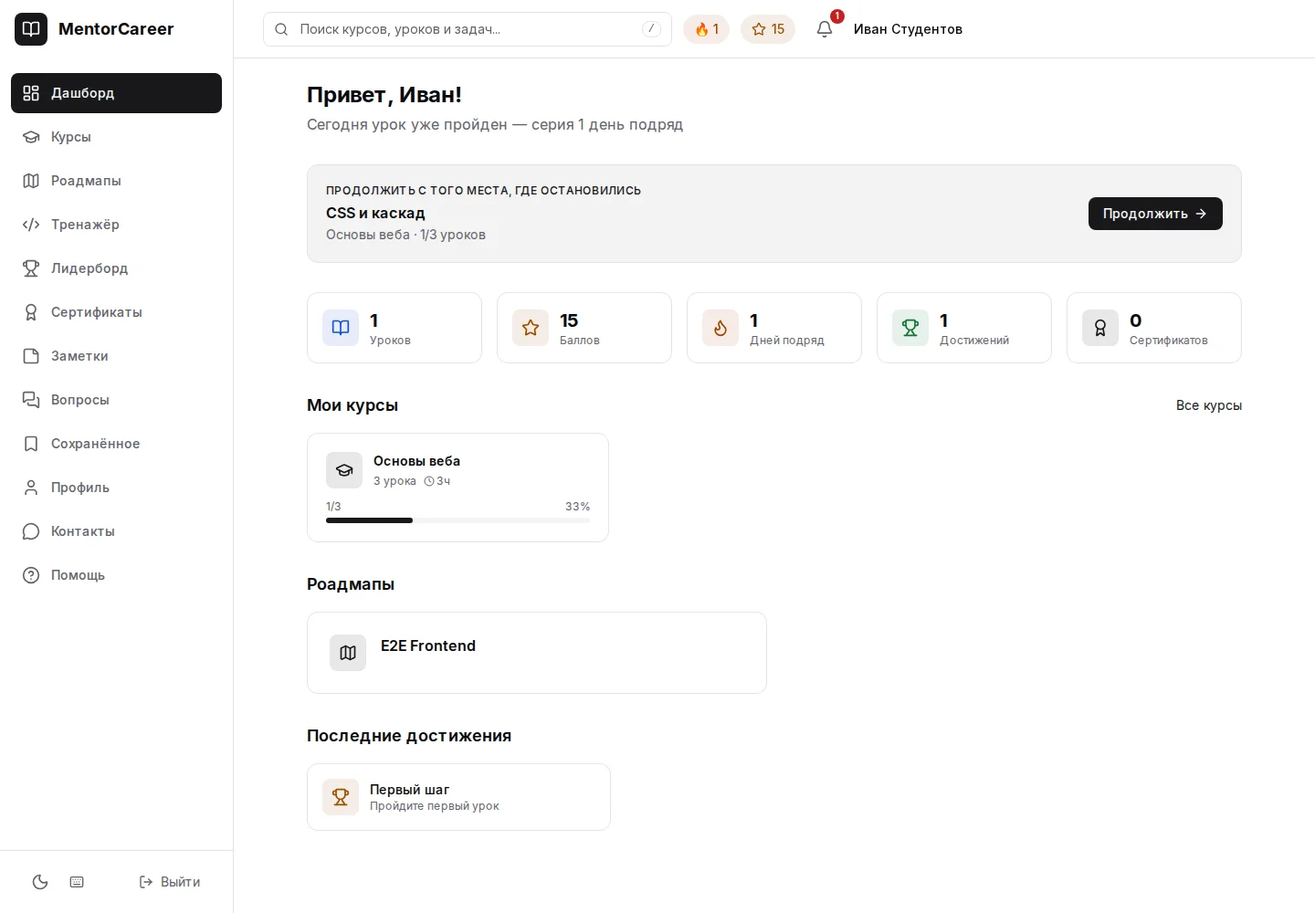
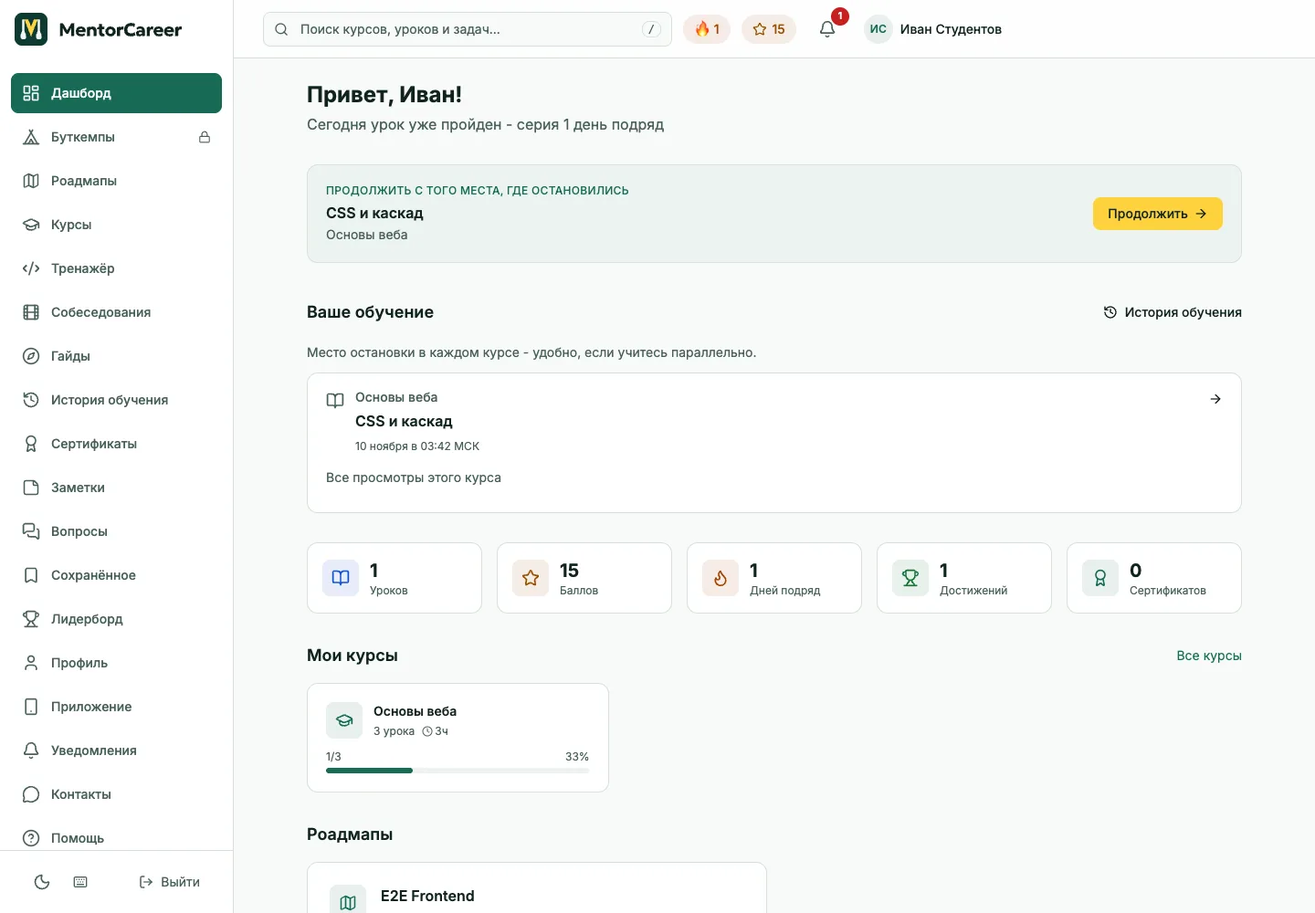
feat(landing): скриншоты инструкции с текущей платформы и скрипт пересъёмки
Тринадцать снимков на info.mentorcareer.ru показывали старый чёрный
интерфейс с книгой вместо знака. scripts/brand/guide-screens.ts снимает их
с e2e-сида и сам считает координаты меток шагов. Картинка лендинга для
соцсетей собрана без накладки на логотип, тексты шагов сверены с
интерфейсом.

diff --git a/landing/src/data/guide.ts b/landing/src/data/guide.ts
@@ -23,9 +23,9 @@ export const CHAPTERS: Chapter[] = [
     intro: 'Для начала нужен аккаунт. Его создаёт администратор - искать кнопку регистрации не нужно. Используйте письмо-приглашение или email и пароль, которые администратор передал вам напрямую.',
     screen: 'login', alt: 'Страница входа MentorCareer: email, пароль и кнопка «Войти»',
     steps: [
-      { title: 'Введите email', text: 'Используйте тот адрес, на который получили приглашение. Это ваш логин.', x: 50, y: 50.0 },
-      { title: 'Введите пароль и войдите', text: 'Введите пароль, который задали по приглашению или получили от администратора, и нажмите «Войти».', x: 50, y: 70.0 },
-      { title: 'Восстановите доступ при необходимости', text: 'Нажмите «Забыли пароль?», введите email и запросите ссылку. Затем задайте новый пароль и вернитесь на вход.', x: 60, y: 65.0 },
+      { title: 'Введите email', text: 'Используйте тот адрес, на который получили приглашение. Это ваш логин.', x: 50, y: 47.3 },
+      { title: 'Введите пароль и войдите', text: 'Введите пароль, который задали по приглашению или получили от администратора, и нажмите «Войти».', x: 50, y: 67 },
+      { title: 'Восстановите доступ при необходимости', text: 'Нажмите «Забыли пароль?», введите email и запросите ссылку. Затем задайте новый пароль и вернитесь на вход.', x: 60.57, y: 61.6 },
     ],
     tip: 'Ссылка из приглашения действует 7 дней. Если она устарела, используйте «Забыли пароль?». Если приглашение не пришло, обратитесь к администратору доступа.',
     details: [
@@ -38,9 +38,9 @@ export const CHAPTERS: Chapter[] = [
     intro: 'После входа открывается дашборд. Здесь собран ваш прогресс, а меню слева помогает перейти к теории, практике и личным материалам.',
     screen: 'dashboard', alt: 'Дашборд LMS с навигацией, статистикой и учебными курсами',
     steps: [
-      { title: 'Выберите раздел в меню', text: '«Роадмапы» показывают порядок тем, «Курсы» - учебные материалы, «Тренажёр» - задачи для практики.', x: 8, y: 22.0 },
-      { title: 'Найдите материал через поиск', text: 'Откройте поиск в верхней панели. Он ищет курсы, уроки и задачи.', x: 41, y: 3.0 },
-      { title: 'Продолжайте начатое', text: 'Блок «Продолжить с того места, где остановились» показывает последний открытый урок. Нажмите «Продолжить», чтобы вернуться к нему.', x: 88, y: 23.0 },
+      { title: 'Выберите раздел в меню', text: '«Роадмапы» показывают порядок тем, «Курсы» - учебные материалы, «Тренажёр» - задачи для практики.', x: 8.85, y: 19.8 },
+      { title: 'Найдите материал через поиск', text: 'Откройте поиск в верхней панели. Он ищет курсы, уроки и задачи.', x: 35.56, y: 3.15 },
+      { title: 'Продолжайте начатое', text: 'Блок «Продолжить с того места, где остановились» показывает последний открытый урок. Нажмите «Продолжить», чтобы вернуться к нему.', x: 88.07, y: 23.4 },
     ],
     tip: 'Не знаете, с чего начать? Откройте «Роадмапы»: там виден порядок тем и ваш следующий шаг.',
     details: [
@@ -53,9 +53,9 @@ export const CHAPTERS: Chapter[] = [
     intro: 'Откройте «Роадмапы» и выберите свой маршрут. Темы связаны между собой: карта помогает увидеть весь путь, а список - спокойно пройти его по этапам.',
     screen: 'roadmap', alt: 'Роадмап: следующий шаг, переключатель карты и список учебных этапов',
     steps: [
-      { title: 'Начните со следующего шага', text: 'В верхнем блоке нажмите «Начать» или «Продолжить». «Программа курса» позволяет сначала посмотреть содержание.', x: 81, y: 32.0 },
-      { title: 'Выберите удобный вид', text: 'Переключайтесь между «Карта» и «Список по этапам».', x: 33, y: 46.0 },
-      { title: 'Изучите тему', text: 'Выберите тему: в панели появятся описание, входящие подтемы, курсы и прогресс. Откройте доступный курс и перейдите к уроку.', x: 59, y: 96.0 },
+      { title: 'Начните со следующего шага', text: 'В верхнем блоке нажмите «Начать» или «Продолжить». «Программа курса» позволяет сначала посмотреть содержание.', x: 80.08, y: 29.89 },
+      { title: 'Выберите удобный вид', text: 'Переключайтесь между «Карта» и «Список по этапам».', x: 29.25, y: 41.76 },
+      { title: 'Изучите тему', text: 'Выберите тему: в панели появятся описание, входящие подтемы, курсы и прогресс. Откройте доступный курс и перейдите к уроку.', x: 57.5, y: 93.75 },
     ],
     tip: 'Доступ к материалам назначает администратор. Программу закрытого курса можно посмотреть, а чтобы его изучать, обратитесь к администратору.',
     details: [
@@ -68,9 +68,9 @@ export const CHAPTERS: Chapter[] = [
     intro: 'В разделе «Курсы» можно искать по названию и отбирать материалы по прогрессу. Внутри курса есть программа, разделы и переход к следующему непройденному уроку.',
     screen: 'courses', alt: 'Каталог курсов с поиском и фильтрами по прогрессу',
     steps: [
-      { title: 'Найдите нужный курс', text: 'Введите название в поле «Найти курс».', x: 37, y: 23.53 },
-      { title: 'Отберите курсы по статусу', text: 'Включите «Назначенные мне», чтобы видеть курсы с доступными уроками. Фильтры «В процессе», «Не начатые» и «Пройденные» помогут быстро найти нужное.', x: 40, y: 30.88 },
-      { title: 'Откройте программу', text: 'Выберите карточку курса. Программу можно просмотреть даже без доступа. В назначенном курсе нажмите «Начать» или «Продолжить» либо выберите доступный урок; закрытые уроки отмечены замком.', x: 35, y: 50.0 },
+      { title: 'Найдите нужный курс', text: 'Введите название в поле «Найти курс».', x: 36.67, y: 37.68 },
+      { title: 'Отберите курсы по статусу', text: 'Включите «Назначенные мне», чтобы видеть курсы с доступными уроками. Фильтры «В процессе», «Не начатые» и «Пройденные» помогут быстро найти нужное.', x: 32.45, y: 44.6 },
+      { title: 'Откройте программу', text: 'Выберите карточку курса. Программу можно просмотреть даже без доступа. В назначенном курсе нажмите «Начать» или «Продолжить» либо выберите доступный урок; закрытые уроки отмечены замком.', x: 34.81, y: 73.42 },
     ],
     tip: 'Процент на карточке зависит от отмеченных уроков. Само открытие курса или просмотр страницы не увеличивает прогресс.',
     details: [
@@ -83,9 +83,9 @@ export const CHAPTERS: Chapter[] = [
     intro: 'На странице урока расположены учебные материалы, заметки, отметка завершения и вопросы. Не торопитесь переходить дальше: сохраните главное и проверьте, что тема понятна.',
     screen: 'lesson', alt: 'Страница урока с учебным материалом, заметками и отметкой завершения',
     steps: [
-      { title: 'Изучите содержание', text: 'Прочитайте текст и посмотрите видео, если оно есть. Урок может также содержать ссылки, файлы и другие учебные блоки.', x: 48, y: 31.96 },
-      { title: 'Отметьте урок пройденным', text: 'После изучения нажмите «Отметить пройденным». Надпись изменится на «Урок пройден». Просмотр видео сам по себе не ставит отметку.', x: 48, y: 57.08 },
-      { title: 'Перейдите к следующему уроку', text: 'Используйте переход к следующему уроку. Вернуться к предыдущему можно через соседнюю ссылку или программу курса.', x: 72, y: 63.93 },
+      { title: 'Изучите содержание', text: 'Прочитайте текст и посмотрите видео, если оно есть. Урок может также содержать ссылки, файлы и другие учебные блоки.', x: 48.06, y: 41.1 },
+      { title: 'Отметьте урок пройденным', text: 'После изучения нажмите «Отметить пройденным». Надпись изменится на «Урок пройден». Просмотр видео сам по себе не ставит отметку.', x: 48.06, y: 65.87 },
+      { title: 'Перейдите к следующему уроку', text: 'Используйте переход к следующему уроку. Вернуться к предыдущему можно через соседнюю ссылку или программу курса.', x: 62.29, y: 75.8 },
     ],
     tip: 'Повторное нажатие на «Урок пройден» снимает отметку. Используйте это, если хотите вернуть урок в список непройденных.',
     details: [
@@ -97,9 +97,9 @@ export const CHAPTERS: Chapter[] = [
     intro: 'Заметки помогают собрать собственный конспект. Закладки - быстро вернуться к материалу. Вопросы к уроку позволяют обсудить конкретную тему с ментором.',
     screen: 'lesson-notes', alt: 'Урок с открытым полем «Мои заметки», кнопкой сохранения и вопросами к уроку',
     steps: [
-      { title: 'Запишите и сохраните заметку', text: 'Откройте «Мои заметки», введите текст и нажмите «Сохранить».', x: 71, y: 58.0 },
-      { title: 'Поставьте закладку', text: 'Кнопка «В сохранённое» добавляет урок или задачу в личный список. Повторное нажатие на «В сохранённом» удаляет закладку.', x: 71, y: 16.0 },
-      { title: 'Задайте вопрос по уроку', text: 'Ниже найдите «Вопросы к уроку», опишите, что осталось непонятным, и нажмите кнопку отправки. Вопрос видите только вы и ментор.', x: 48, y: 93.0 },
+      { title: 'Запишите и сохраните заметку', text: 'Откройте «Мои заметки», введите текст и нажмите «Сохранить».', x: 70.63, y: 58.93 },
+      { title: 'Поставьте закладку', text: 'Кнопка «В сохранённое» добавляет урок или задачу в личный список. Повторное нажатие на «В сохранённом» удаляет закладку.', x: 70.87, y: 16.34 },
+      { title: 'Задайте вопрос по уроку', text: 'Ниже найдите «Вопросы к уроку», опишите, что осталось непонятным, и нажмите кнопку отправки. Вопрос видите только вы и ментор.', x: 48.06, y: 96.07 },
     ],
     tip: 'Когда ментор ответит, придёт уведомление. Все ваши обсуждения доступны в разделе «Вопросы», а конспекты - в «Заметках».',
     details: [
@@ -112,9 +112,9 @@ export const CHAPTERS: Chapter[] = [
     intro: 'Откройте «Тренажёр», выберите тему и задачу. В каталоге «Все задачи» можно отбирать их по языку, сложности и статусу. У каждой задачи есть условие, редактор и результаты проверки.',
     screen: 'trainer', alt: 'Тренажёр: условие задачи, редактор кода, кнопки «Запустить» и «Отправить»',
     steps: [
-      { title: 'Прочитайте условие и тесты', text: 'Начните с вкладок «Условие» и «Тесты». Обратите внимание на ожидаемый результат и ограничения, затем напишите решение в редакторе.', x: 24, y: 23.0 },
-      { title: 'Проверьте код: «Запустить»', text: 'Кнопка выполняет публичные тесты в браузере. Если тест не проходит, сравните «Вызов», «Ожидалось» и «Получено», исправьте код и повторите.', x: 70, y: 22.0 },
-      { title: 'Получите зачёт: «Отправить»', text: 'Отправьте решение на сервер. Он проверит и публичные, и скрытые тесты. При успехе появится «Задача решена!» и обновится ваш прогресс.', x: 80, y: 22.0 },
+      { title: 'Прочитайте условие и тесты', text: 'Начните с вкладок «Условие» и «Тесты». Обратите внимание на ожидаемый результат и ограничения, затем напишите решение в редакторе.', x: 24.21, y: 26.3 },
+      { title: 'Проверьте код: «Запустить»', text: 'Кнопка выполняет публичные тесты в браузере. Если тест не проходит, сравните «Вызов», «Ожидалось» и «Получено», исправьте код и повторите.', x: 84.32, y: 25.8 },
+      { title: 'Получите зачёт: «Отправить»', text: 'Отправьте решение на сервер. Он проверит и публичные, и скрытые тесты. При успехе появится «Задача решена!» и обновится ваш прогресс.', x: 93.31, y: 25.8 },
     ],
     tip: 'Зелёные тесты после «Запустить» ещё не означают зачёт. Всегда завершайте решение успешной отправкой на сервер.',
     details: [
@@ -128,13 +128,13 @@ export const CHAPTERS: Chapter[] = [
     intro: 'Прогресс по курсам виден в каталоге и роадмапе. В профиле собраны пройденные уроки, баллы, достижения и активность. Это помогает видеть результат регулярных занятий.',
     screen: 'profile', alt: 'Профиль ученика: количество уроков, баллы, достижения и активность',
     steps: [
-      { title: 'Посмотрите свою статистику', text: 'Откройте «Профиль». В верхней части страницы видны пройденные уроки, баллы и число достижений.', x: 59, y: 30.0 },
-      { title: 'Оцените регулярность занятий', text: 'Блок «Активность» показывает учебную активность по дням. Ниже можно посмотреть ближайшие достижения.', x: 50, y: 51.0 },
-      { title: 'Найдите сертификаты', text: 'После завершения всех опубликованных уроков курса откройте «Сертификаты». Выберите карточку, чтобы открыть документ.', x: 9, y: 34.0 },
+      { title: 'Посмотрите свою статистику', text: 'Откройте «Профиль». В верхней части страницы видны пройденные уроки, баллы и число достижений.', x: 56.5, y: 34.1 },
+      { title: 'Оцените регулярность занятий', text: 'Блок «Активность» показывает учебную активность по дням. Ниже можно посмотреть ближайшие достижения.', x: 41.92, y: 56.5 },
+      { title: 'Найдите сертификаты', text: 'После завершения всех опубликованных уроков курса откройте «Сертификаты». Выберите карточку, чтобы открыть документ.', x: 8.85, y: 48.6 },
     ],
     tip: '«Скачать PDF» на странице сертификата открывает окно печати браузера. Выберите «Сохранить как PDF».',
     details: [
-      { title: 'Настройте профиль', text: 'Через «Редактировать профиль» можно изменить аватар и текст «О себе», затем нажать «Сохранить».' },
+      { title: 'Настройте профиль', text: 'Через «Настроить профиль» можно изменить аватар и текст «О себе», затем нажать «Сохранить профиль».' },
       { title: 'Если прогресс не изменился', text: 'Проверьте, что урок отмечен пройденным или решение успешно отправлено на сервер. Открытая страница, просмотр видео и запуск публичных тестов не заменяют эти действия.' },
     ],
   },
@@ -143,9 +143,9 @@ export const CHAPTERS: Chapter[] = [
     intro: 'На телефоне навигация адаптируется: основные разделы доступны снизу, остальные - через «Ещё». Уроки, заметки и вопросы остаются доступными.',
     screen: 'mobile', alt: 'Мобильный дашборд MentorCareer с нижней навигацией',
     steps: [
-      { title: 'Используйте нижнюю навигацию', text: 'Переключайтесь между основными учебными разделами через панель внизу экрана.', x: 50, y: 96.0 },
-      { title: 'Откройте полное меню', text: 'Нажмите «Ещё» справа в нижней панели. Откроется полное меню со всеми разделами.', x: 90, y: 96.0 },
-      { title: 'Вернитесь к материалу', text: 'Откройте курс или роадмап и продолжите урок. Для подробной работы с картой удобно включить «Список по этапам».', x: 30, y: 39.0 },
+      { title: 'Используйте нижнюю навигацию', text: 'Переключайтесь между основными учебными разделами через панель внизу экрана.', x: 50, y: 96.15 },
+      { title: 'Откройте полное меню', text: 'Нажмите «Ещё» справа в нижней панели. Откроется полное меню со всеми разделами.', x: 90, y: 96.21 },
+      { title: 'Вернитесь к материалу', text: 'Откройте курс или роадмап и продолжите урок. Для подробной работы с картой удобно включить «Список по этапам».', x: 26.62, y: 38.98 },
     ],
     tip: 'Писать и отлаживать код в тренажёре удобнее на компьютере.',
     details: [
@@ -155,11 +155,11 @@ export const CHAPTERS: Chapter[] = [
   {
     id: 'help', nav: 'Если нужна помощь', title: 'Выберите подходящий способ задать вопрос',
     intro: 'Для вопроса о материале используйте обсуждение под уроком. Для проблемы с работой платформы откройте «Помощь» и отправьте сообщение через «Обратную связь».',
-    screen: 'help', alt: 'Раздел «Помощь»: форма обратной связи и частые вопросы',
+    screen: 'help', alt: 'Раздел «Помощь»: способы связи и форма обратной связи',
     steps: [
-      { title: 'Опишите тему', text: 'В поле «Тема» коротко назовите проблему: например, «Не запускается видео в уроке».', x: 59, y: 50.32 },
-      { title: 'Добавьте подробности', text: 'В «Сообщении» укажите название урока или задачи, устройство, браузер, ваши действия и точный текст ошибки. Не отправляйте пароли.', x: 59, y: 61.03 },
-      { title: 'Отправьте сообщение', text: 'Нажмите «Отправить» и дождитесь надписи «Сообщение отправлено». Если показана ошибка, сообщение могло не уйти - попробуйте ещё раз.', x: 38, y: 71.73 },
+      { title: 'Опишите тему', text: 'В поле «Тема» коротко назовите проблему: например, «Не запускается видео в уроке».', x: 58.89, y: 66.54 },
+      { title: 'Добавьте подробности', text: 'В «Сообщении» укажите название урока или задачи, устройство, браузер, ваши действия и точный текст ошибки. Не отправляйте пароли.', x: 58.89, y: 78.32 },
+      { title: 'Отправьте сообщение', text: 'Нажмите «Отправить» и дождитесь надписи «Сообщение отправлено». Если показана ошибка, сообщение могло не уйти - попробуйте ещё раз.', x: 38.19, y: 88.28 },
     ],
     tip: 'Если войти не получается, форма внутри платформы будет недоступна. Используйте восстановление пароля или обратитесь к администратору доступа.',
     details: [

diff --git a/scripts/brand/guide-screens.ts b/scripts/brand/guide-screens.ts
@@ -1,0 +1,209 @@
+/**
+ * Снимки платформы для инструкции на лендинге (landing/public/guide) и координаты меток-шагов к ним.
+ *
+ *   E2E_APP_PORT=<порт> node scripts/e2e-server.mjs      # в другом терминале: свежий сид
+ *   pnpm exec tsx scripts/brand/guide-screens.ts         # снимки, размеры и метки шагов в guide.ts
+ *
+ * Пересъёмка нужна после заметной смены интерфейса: иначе инструкция показывает не ту платформу,
+ * которую ученик видит после входа. Метки ищутся по элементам страницы, а не задаются на глаз,
+ * поэтому сдвиг меню или кнопок их не ломает. Браузер по умолчанию установленный Chrome, другой
+ * задаётся путём в BRAND_BROWSER, как в scripts/brand/og.ts. После съёмки - og.ts: картинка
+ * лендинга для соцсетей построена на снимке дашборда.
+ */
+import { mkdirSync, readFileSync, writeFileSync } from 'node:fs'
+import path from 'node:path'
+import { chromium, type Locator, type Page } from '@playwright/test'
+import sharp from 'sharp'
+
+import { CONTENT, USERS } from '../../tests/e2e/fixtures/data'
+import { APP_URL } from '../../tests/e2e/fixtures/env'
+
+const OUT = 'landing/public/guide'
+const SCREENS_JSON = 'landing/src/data/screens.json'
+const GUIDE_TS = 'landing/src/data/guide.ts'
+
+const [html, css] = CONTENT.lessons
+const NOTE = 'HTML описывает структуру страницы.\nПовторить: теги, атрибуты и вложенность элементов.'
+
+type Shot = {
+  path: string
+  height: number
+  mobile?: boolean
+  guest?: boolean
+  prepare?: (page: Page) => Promise<void>
+  /** Элементы, на которые указывают метки шагов, в порядке шагов в landing/src/data/guide.ts. */
+  targets?: (page: Page) => Locator[]
+}
+
+const sidebar = (page: Page, name: string) => page.getByRole('navigation', { name: 'Меню платформы' }).getByRole('link', { name, exact: true })
+const resume = (page: Page) => page.getByRole('link', { name: /^Продолжить с того места/ }).getByText('Продолжить', { exact: true })
+
+const SHOTS: Record<string, Shot> = {
+  login: {
+    path: '/login',
+    height: 1000,
+    guest: true,
+    targets: (page) => [page.getByRole('textbox', { name: 'Email' }), page.getByRole('button', { name: 'Войти' }), page.getByRole('link', { name: 'Забыли пароль?' })],
+  },
+  dashboard: {
+    path: '/',
+    height: 1000,
+    targets: (page) => [sidebar(page, 'Роадмапы'), page.getByRole('combobox', { name: /^Поиск/ }), resume(page)],
+  },
+  roadmap: {
+    path: `/roadmaps/${CONTENT.roadmap.slug}`,
+    height: 1180,
+    targets: (page) => [
+      page.getByRole('link', { name: /^(Начать|Продолжить)$/ }).first(),
+      page.getByRole('tablist', { name: 'Вид роадмапа' }),
+      page.getByRole('button', { name: 'Открыть тему «Веб-основы»' }),
+    ],
+  },
+  courses: {
+    path: '/courses',
+    height: 680,
+    targets: (page) => [page.getByRole('searchbox', { name: 'Найти курс по названию' }), page.getByRole('button', { name: /^В процессе/ }), page.getByRole('main').getByRole('link', { name: new RegExp(`^${CONTENT.course.title}`) })],
+  },
+  course: { path: `/courses/${CONTENT.course.slug}`, height: 728 },
+  lesson: {
+    path: `/lessons/${css.slug}`,
+    height: 876,
+    targets: (page) => [page.getByText('ключевые понятия урока'), page.getByRole('button', { name: 'Отметить пройденным' }), page.getByRole('link', { name: /^Следующий урок/ })],
+  },
+  'lesson-notes': {
+    path: `/lessons/${css.slug}`,
+    height: 1120,
+    prepare: async (page) => {
+      await page.getByRole('button', { name: 'Мои заметки' }).click()
+      await page.getByRole('textbox', { name: /заметк/i }).first().fill('Каскад: важность, специфичность, порядок.\nПроверить в DevTools, какое правило победило.')
+    },
+    targets: (page) => [page.getByRole('button', { name: 'Сохранить' }).first(), page.getByRole('button', { name: 'В сохранённое' }), page.getByRole('textbox', { name: 'Вопрос к уроку' })],
+  },
+  notes: { path: '/notes', height: 680 },
+  saved: { path: '/saved', height: 680 },
+  trainer: {
+    path: `/trainer/${CONTENT.topic.slug}/${CONTENT.task.slug}`,
+    height: 1000,
+    prepare: async (page) => {
+      await page.locator('.monaco-editor').first().waitFor()
+    },
+    targets: (page) => [page.getByRole('button', { name: 'Условие', exact: true }), page.getByRole('button', { name: 'Запустить', exact: true }), page.getByRole('button', { name: 'Отправить', exact: true })],
+  },
+  profile: {
+    path: '/profile',
+    height: 1000,
+    targets: (page) => [page.getByText('Баллов', { exact: true }), page.getByRole('img', { name: /^Календарь занятий/ }), sidebar(page, 'Сертификаты')],
+  },
+  help: {
+    path: '/help',
+    height: 934,
+    targets: (page) => [page.getByRole('textbox', { name: 'Тема' }), page.getByRole('textbox', { name: 'Сообщение' }), page.getByRole('button', { name: 'Отправить', exact: true })],
+  },
+  mobile: {
+    path: '/',
+    height: 844,
+    mobile: true,
+    targets: (page) => [
+      page.getByRole('navigation', { name: 'Основная навигация' }),
+      page.getByRole('navigation', { name: 'Основная навигация' }).getByRole('button', { name: 'Ещё' }),
+      resume(page),
+    ],
+  },
+}
+
+/** Состояние ученика как у человека после первого урока: пройденный урок, заметка, закладка, начатый второй урок. */
+// Повторный запуск на той же базе ничего не ломает: уже сделанные шаги пропускаются.
+async function prepareStudent(page: Page) {
+  await page.goto(`/lessons/${html.slug}`)
+  await page.waitForLoadState('networkidle')
+  const bookmark = page.getByRole('button', { name: 'В сохранённое', exact: true })
+  if (await bookmark.isVisible()) await bookmark.click()
+  await page.getByRole('button', { name: 'Мои заметки' }).click()
+  await page.getByRole('textbox', { name: /заметк/i }).first().fill(NOTE)
+  const save = page.getByRole('button', { name: 'Сохранить' }).first()
+  // Кнопка неактивна, если такой текст уже сохранён.
+  if (await save.isEnabled()) {
+    await save.click()
+    await page.getByText(/Сохранено/).first().waitFor()
+  }
+  const complete = page.getByRole('button', { name: 'Отметить пройденным' })
+  if (await complete.isVisible()) await complete.click()
+  await page.getByText('Урок пройден').first().waitFor()
+  await page.goto(`/lessons/${css.slug}`)
+  await page.waitForLoadState('networkidle')
+}
+
+async function center(page: Page, target: Locator, width: number, height: number) {
+  const box = await target.boundingBox()
+  if (!box) throw new Error(`Нет элемента для метки на ${page.url()}: ${target}`)
+  const round = (value: number) => Math.round(value * 100) / 100
+  return { x: round(((box.x + box.width / 2) / width) * 100), y: round(((box.y + box.height / 2) / height) * 100) }
+}
+
+const browser = await chromium.launch(process.env.BRAND_BROWSER ? { executablePath: process.env.BRAND_BROWSER } : { channel: 'chrome' })
+const screens = JSON.parse(readFileSync(SCREENS_JSON, 'utf8')) as Record<string, { width: number; height: number }>
+const hotspots: Record<string, { x: number; y: number }[]> = {}
+mkdirSync(OUT, { recursive: true })
+
+try {
+  const contextOptions = { baseURL: APP_URL, locale: 'ru-RU', timezoneId: 'Europe/Moscow', colorScheme: 'light' as const, reducedMotion: 'reduce' as const }
+  const student = await browser.newContext({ ...contextOptions, viewport: { width: 1440, height: 1000 } })
+  const login = await student.request.post('/api/users/login', { data: { email: USERS.student.email, password: USERS.student.password }, headers: { Origin: APP_URL } })
+  if (!login.ok()) throw new Error(`Вход ученика: ${login.status()} ${await login.text()}`)
+  await prepareStudent(await student.newPage())
+  const cookies = await student.cookies()
+
+  for (const [name, shot] of Object.entries(SHOTS)) {
+    const width = shot.mobile ? 390 : 1440
+    const context = await browser.newContext({ ...contextOptions, viewport: { width, height: shot.height }, isMobile: shot.mobile, hasTouch: shot.mobile })
+    if (!shot.guest) await context.addCookies(cookies)
+    // Лендинг светлый, поэтому и снимки в светлой теме. Окно установки приложения перекрыло бы экран.
+    await context.addInitScript(() => {
+      try {
+        localStorage.setItem('theme', 'light')
+        localStorage.setItem('lms:pwa-install-explained:v1', '1')
+      } catch {
+        // без хранилища останется системная тема, её задаёт colorScheme контекста
+      }
+    })
+    const page = await context.newPage()
+    await page.goto(shot.path)
+    await page.waitForLoadState('networkidle')
+    await shot.prepare?.(page)
+    await page.addStyleTag({ content: '*, *::before, *::after { transition: none !important; animation: none !important; caret-color: transparent !important; }' })
+    await page.evaluate(() => document.fonts.ready)
+    const png = await page.screenshot({ clip: { x: 0, y: 0, width, height: shot.height } })
+    const file = path.join(OUT, `${name}.webp`)
+    writeFileSync(file, await sharp(png).webp({ quality: 82 }).toBuffer())
+    screens[name] = { width, height: shot.height }
+    if (shot.targets) hotspots[name] = await Promise.all(shot.targets(page).map((target) => center(page, target, width, shot.height)))
+    process.stdout.write(`${file}\n`)
+    await context.close()
+  }
+} finally {
+  await browser.close()
+}
+
+/** Координаты меток живут рядом с текстом шагов в guide.ts: заменяем их по порядку внутри главы снимка. */
+function patchGuide(source: string): string {
+  let result = source
+  for (const [name, points] of Object.entries(hotspots)) {
+    const start = result.indexOf(`screen: '${name}'`)
+    const stepsStart = result.indexOf('steps: [', start)
+    const stepsEnd = result.indexOf('\n    ],', stepsStart)
+    if (start < 0 || stepsStart < 0 || stepsEnd < 0) throw new Error(`В ${GUIDE_TS} нет шагов снимка ${name}`)
+    let index = 0
+    const steps = result.slice(stepsStart, stepsEnd).replace(/x: [\d.]+, y: [\d.]+/g, () => {
+      const point = points[index++]
+      if (!point) throw new Error(`У снимка ${name} меток меньше, чем шагов`)
+      return `x: ${point.x}, y: ${point.y}`
+    })
+    if (index !== points.length) throw new Error(`У снимка ${name} ${points.length} меток, а шагов ${index}`)
+    result = result.slice(0, stepsStart) + steps + result.slice(stepsEnd)
+  }
+  return result
+}
+
+writeFileSync(SCREENS_JSON, `${JSON.stringify(screens, null, 2)}\n`)
+writeFileSync(GUIDE_TS, patchGuide(readFileSync(GUIDE_TS, 'utf8')))
+process.stdout.write(`${SCREENS_JSON}\n${GUIDE_TS}\n`)

diff --git a/scripts/brand/og.ts b/scripts/brand/og.ts
@@ -28,8 +28,6 @@ const lms = `${base}<body style="background:${C.deep};color:${C.sail};position:r
 const landing = `${base}<body style="background:${C.sail};color:${C.ink};position:relative">
   <div style="position:absolute;left:692px;top:92px;width:640px;border-radius:18px;overflow:hidden;background:#fff;box-shadow:0 22px 60px rgba(16,36,30,.16)">
     <img src="${dataUri('landing/public/guide/dashboard.webp', 'image/webp')}" style="display:block;width:100%">
-    <!-- На снимке интерфейса ещё прежний логотип. -->
-    <div style="position:absolute;left:4px;top:3px;width:92px;height:24px;background:#fff;display:flex;align-items:center;gap:5px;padding-left:3px">${tileMark(17)}${word(9, C.ink)}</div>
   </div>
   <div style="position:absolute;left:72px;top:64px;bottom:64px;width:580px;display:flex;flex-direction:column;justify-content:space-between">
     <div style="display:flex;align-items:center;gap:16px">${tileMark(56)}${word(25, C.ink)}</div>

diff --git a/docs/brand.md b/docs/brand.md
@@ -15,6 +15,20 @@
 Картинки для соцсетей LMS и лендинга рисует `scripts/brand/og.ts` (`pnpm exec tsx scripts/brand/og.ts`,
 другой браузер задаётся через `BRAND_BROWSER`). Telegram кеширует превью, обновить его можно через @WebpageBot.
 
+Скриншоты платформы в инструкции на info.mentorcareer.ru снимает `scripts/brand/guide-screens.ts`
+с e2e-сида: сначала `E2E_APP_PORT=<порт> node scripts/e2e-server.mjs`, затем
+`E2E_APP_PORT=<порт> pnpm exec tsx scripts/brand/guide-screens.ts`. Скрипт сам готовит ученика
+(пройденный урок, заметка, закладка), пишет размеры в `landing/src/data/screens.json` и координаты
+меток в `landing/src/data/guide.ts`. После него нужен `og.ts`: картинка лендинга для соцсетей
+построена на снимке дашборда. Переснимать после заметной смены интерфейса, иначе инструкция
+показывает не ту платформу, что видит ученик. Два снимка кабинета на странице буткемпа
+(`landing/public/bootcamp/path/bc-lms-*.webp`) показывают настоящий курс с прода, их снимают
+отдельно, см. `docs/bootcamp-leads.md`.
+
+Письма (`src/payload/emails/templates.ts`) и админка Payload (`src/app/(payload)/custom.scss`,
+логотип и значок из `src/components/brand/AdminBrand.tsx`) тоже в цветах знака. Схемы mermaid в
+уроках рисуются темой `base` с цветами знака (`MermaidDiagram.tsx`).
+
 ## Правила
 
 До 32 px используется плотная отрисовка `MARK_SMALL`: её вертикали стоят на сетке, чтобы при 16 px
@@ -25,6 +39,11 @@
 запас под круглую маску Android. iOS заливает прозрачное чёрным, поэтому `apple-touch-icon` без
 прозрачности. Значок уведомления `badge-96.png` белый на прозрачном: Android рисует его только по
 прозрачности.
+
+Уже установленное приложение на Android новую иконку само не берёт. 10.11.2026 на телефоне владельца
+приложение, установленное до смены знака, обновило цвет заставки из манифеста, но осталось с первой
+иконкой от 08.10 (документ на тёмном круге). Помогает удалить приложение и установить заново с
+learn.mentorcareer.ru. Поэтому знак и иконки лучше не менять без серьёзной причины.
 
 | Цвет | Значение | Где |
 |---|---|---|
@@ -48,4 +67,7 @@
 украшения им не красим. Цвета стадий роадмапа, медалей и статусов несут свой смысл и от бренда не зависят.
 
 Фон панели браузера задан в `src/app/(frontend)/layout.tsx`, его значения должны совпадать с `--background`.
-Письма и админка Payload пока в прежних нейтральных цветах.
+
+В письмах свои значения той же палитры (константа `C` в шаблонах): почтовые клиенты не читают CSS-переменные.
+В админке шкалы Payload `--color-base-*` и `--color-success-*` подкрашены в зелёный с сохранением светлоты
+ступеней, основная кнопка - «Курс» в светлой теме и мятная в тёмной.
